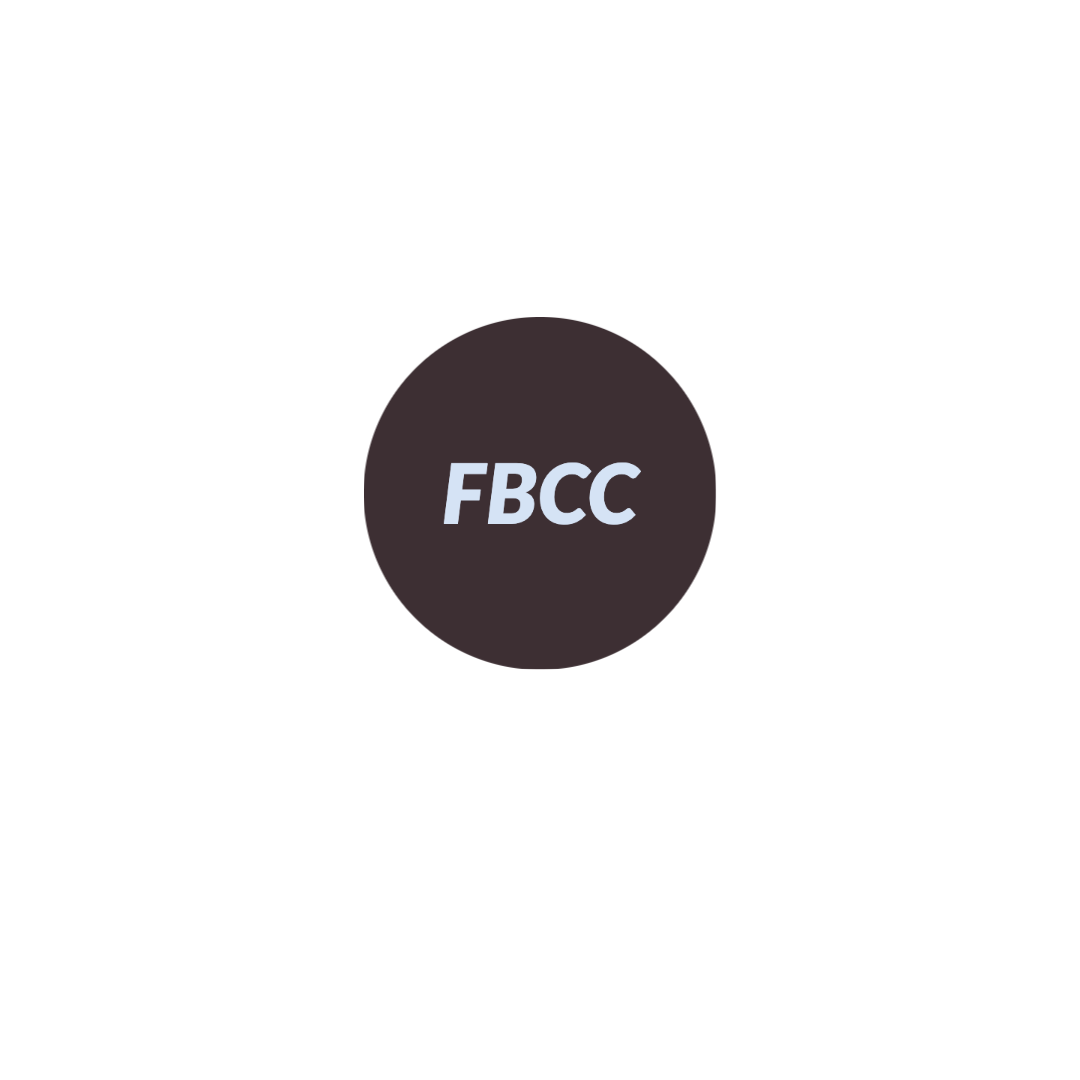
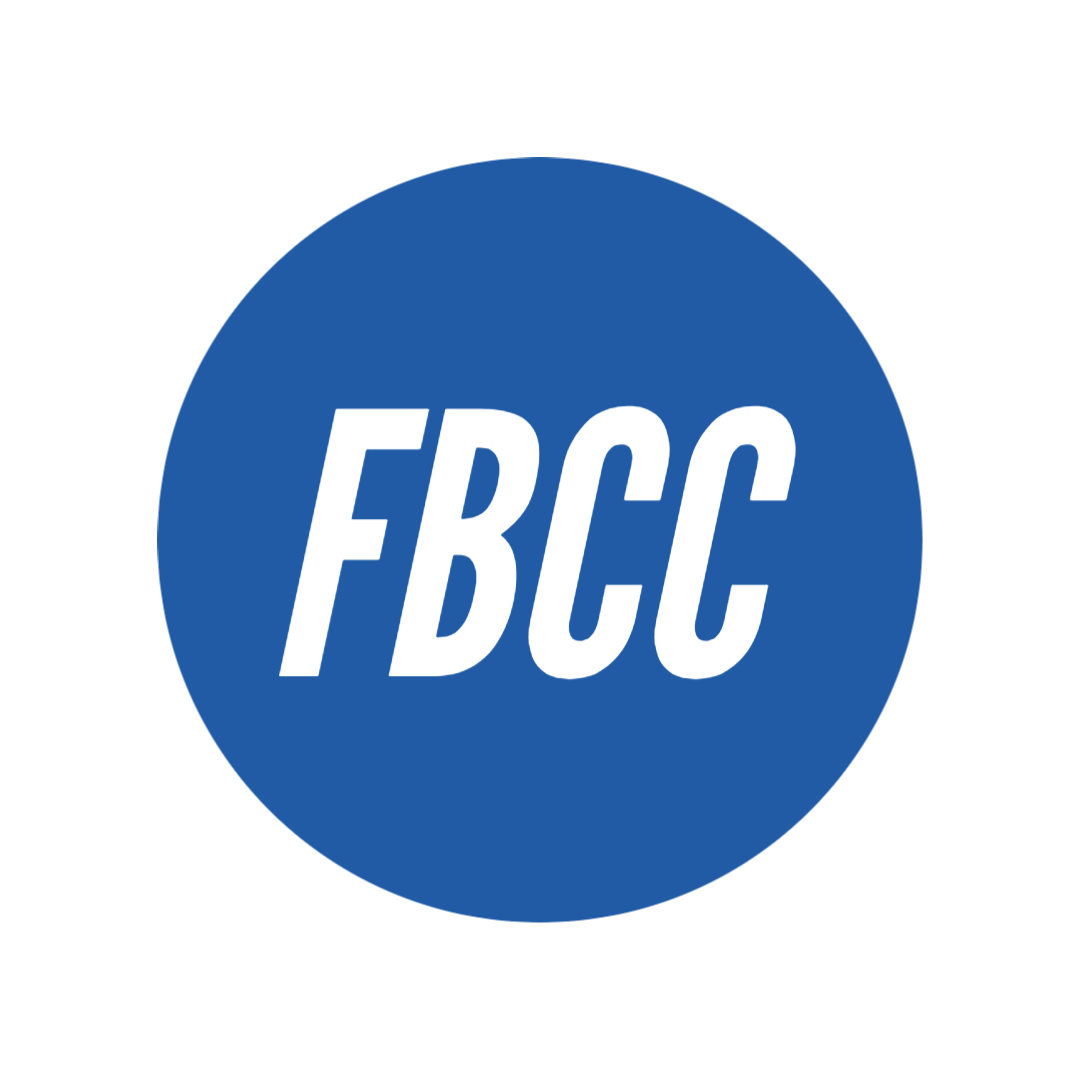
working on navbar

diff --git a/sass/layout/_header.scss b/sass/layout/_header.scss
@@ -9,20 +9,21 @@
   border-bottom: 1px solid var(--color-grey-light-2);
   overflow: hidden; 
 
-  &__logo-box{    
+  &__logo-box{
+    
+    display: flex;
+    flex-direction: row;
+    justify-content:  center;
+    align-items: center;
     
     width: 8rem;
-    height: 8rem;
-    
-    @media only screen and (max-width: 818px) {
-        width: auto;
-        height: 2.4rem;
-    }
+    height: 8rem;  
   }
-
-  &__logo {
+  
+  &__logo { 
+    
     height: 100%;
     width: auto;
   }
-
+  
 }

diff --git a/css/style.css b/css/style.css
@@ -387,14 +387,12 @@ body {
   overflow: hidden;
 }
 .header__logo-box {
+  display: flex;
+  flex-direction: row;
+  justify-content: center;
+  align-items: center;
   width: 8rem;
   height: 8rem;
-}
-@media only screen and (max-width: 818px) {
-  .header__logo-box {
-    width: auto;
-    height: 2.4rem;
-  }
 }
 .header__logo {
   height: 100%;

diff --git a/index.html b/index.html
@@ -18,7 +18,7 @@
     <div class="container">
       <header class="header">
         <div class="header__logo-box">
-          <img class="header__logo" src="./img/icon2.png" alt="Logo" />
+          <img class="header__logo" src="./img/icon.png" alt="Logo" />
         </div>
         <nav class="nav">
           <div class="nav__item">
